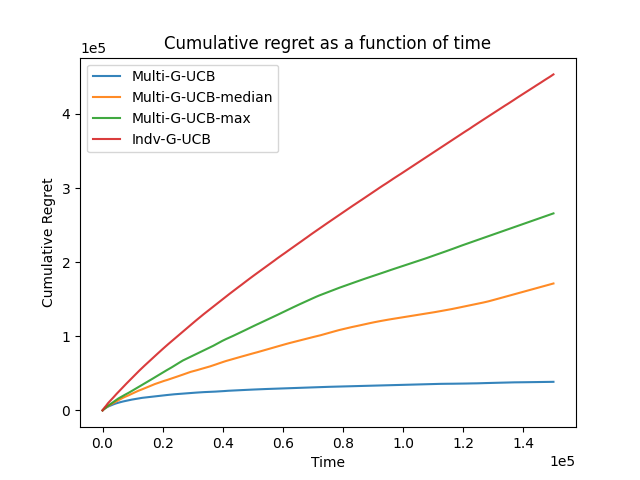
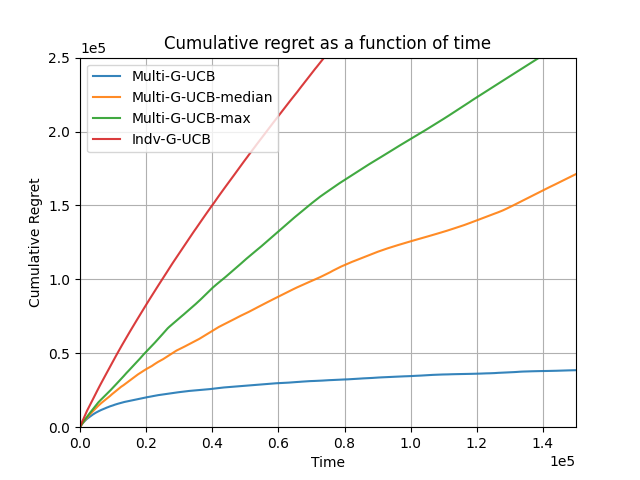
Some graphing changes

diff --git a/Formulation2/Graph.py b/Formulation2/Graph.py
@@ -21,18 +21,22 @@ for i, type in enumerate(type_list):
 plt.xlabel("Time")
 plt.ylabel("Cumulative Regret")
 plt.ticklabel_format(style='scientific', axis='both', scilimits=(0,0))
+plt.grid(True)
 plt.legend()
 plt.title("Cumulative regret as a function of time")
+plt.ylim(0, 250000)
+plt.xlim(0, 150000)
+# plt.show()
 plt.savefig("final_av_cumulative_regret_comparison.png")
 
-# # Plot Average Regret for different algorithm types
-plt.clf()
-for i, type in enumerate(type_list):
-    plt.plot(range(T), np.divide(np.mean(cumulative_regrets[type], axis = 0), range(1, T+1)), alpha = 0.9, color=palette[i], label = names[i])
+# # # Plot Average Regret for different algorithm types
+# plt.clf()
+# for i, type in enumerate(type_list):
+#     plt.plot(range(T), np.divide(np.mean(cumulative_regrets[type], axis = 0), range(1, T+1)), alpha = 0.9, color=palette[i], label = names[i])
 
-plt.xlabel("Time")
-plt.ylabel("Average Regret")
-plt.xscale('log')
-plt.legend()
-plt.title("Average regret as a function of time")
-plt.savefig("final_av_average_regret_comparison_log.png")
+# plt.xlabel("Time")
+# plt.ylabel("Average Regret")
+# plt.xscale('log')
+# plt.legend()
+# plt.title("Average regret as a function of time")
+# plt.savefig("final_av_average_regret_comparison_log.png")
